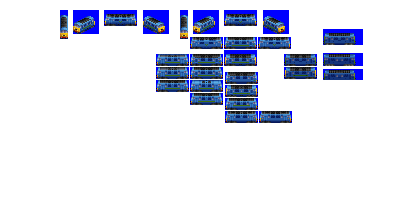
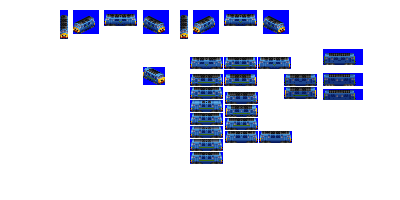
Change: sprites and stats complete for Tenacious

diff --git a/src/vehicles/tenacious.py b/src/vehicles/tenacious.py
@@ -15,7 +15,7 @@ def main(roster_id):
         gen=4,
         fixed_run_cost_points=150,  # give a small bonus so this can be a genuine mixed-traffic engine
         default_livery_extra_docs_examples=[("COLOUR_GREEN", "COLOUR_WHITE"), ("COLOUR_PINK", "COLOUR_WHITE")],
-        sprites_complete=False,
+        sprites_complete=True,
     )
 
     consist.add_unit(
@@ -25,7 +25,7 @@ def main(roster_id):
         spriterow_num=0,
     )
 
-    consist.description = """."""
-    consist.foamer_facts = """BR Class 42, BR Class 43"""
+    consist.description = """It's rapid, sprightly, and formidable all at once."""
+    consist.foamer_facts = """BR Class 42/43 <i>Warship</i>"""
 
     return consist

diff --git a/src/vehicles/dragon.py b/src/vehicles/dragon.py
@@ -33,7 +33,7 @@ def main(roster_id):
 
     consist.description = """A right big fast diesel hydraulic this one is."""
     consist.foamer_facts = (
-        """BR Class 52 <i>Western</i>, BR Class 42/43 <i>Warship</i>"""
+        """BR Class 52 <i>Western</i>"""
     )
 
     return consist
